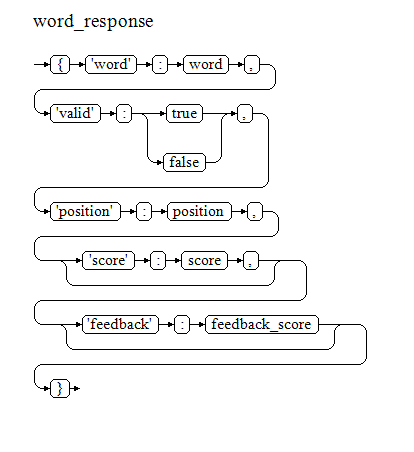
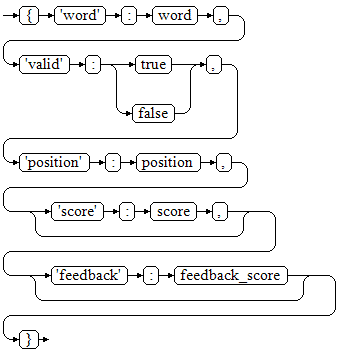
Updated README content and graphics for better display.

diff --git a/README.md b/README.md
@@ -12,7 +12,7 @@ All requests should be JSON objects posted to the /api URL. The service will res
 ## Request Object Syntax
 
 ```EBNF
-request = "{" "'words'" ":" "[" [ word  { "," word } ] "]" \n ["'feedback'" ":" "[" [ feedback { "," feedback  } ] "]" ] \n "}" .
+request = "{" "'words'" ":" "[" [ word  { "," word } ] "]"  ["'feedback'" ":" "[" [ feedback { "," feedback  } ] "]" ]  "}" .
 
 feedback = "{" "'word'" ":" word "," "'feedback'" ":" feedback_score "}" .
 ```
@@ -24,9 +24,9 @@ feedback = "{" "'word'" ":" word "," "'feedback'" ":" feedback_score "}" .
 ## Response Object Syntax
 
 ```EBNF
-response = "{" "'valid'" ":" ( true | false ) "," \n [ "'message'" ":" message "," ] \n "'words'" ":" "[" [ word_response {"," word_response} ] "]" \n "}" .
+response = "{" "'valid'" ":" ( true | false ) ","  [ "'message'" ":" message "," ]  "'words'" ":" "[" [ word_response {"," word_response} ] "]"  "}" .
 
-word_response = "{" "'word'" ":" word "," \n "'valid'" ":" ("true" | "false") "," \n "'position'" ":" position "," \n [ "'score'" ":" score "," ] \n [ "'feedback'" ":" feedback_score ] \n "}" .
+word_response = "{" "'word'" ":" word ","  "'valid'" ":" ("true" | "false") ","  "'position'" ":" position ","  [ "'score'" ":" score "," ]  [ "'feedback'" ":" feedback_score ]  "}" .
 ```
 
 ![EBNF Response Diagram](./website/static/website/docs/response.png)
